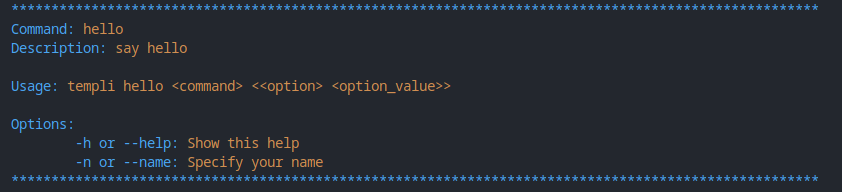
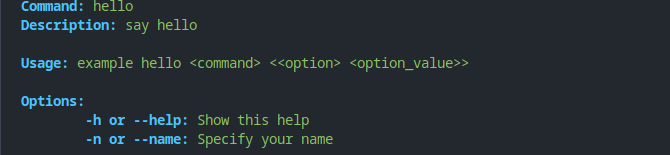
chore: update readme

diff --git a/README.md b/README.md
@@ -4,9 +4,9 @@ RCli is a powerful C++ library that simplifies the creation of CLI applications.
 
 With RCli, you can effortlessly handle user interactions, process input, and implement features like help commands (your_cli -h).
 
-# BUILD :hammer:
+For the color, RCli use [TColor](http://github.com/RickaPrincy/TColor)
 
-#### I recommend using RCli as a CMake submodule. However, if you prefer to build it separately, here's how you can do it:
+# BUILD :hammer:
 
 - Dependancies
     - CMake (Version 3.27 or later)
@@ -31,6 +31,7 @@ Create an instance of the App class, specifying the application name, version, a
 
 ```cpp
 int main(int argc, const char *argv[]){
+    Config::_error_color = TColor::B_RED; // RCli use TColor
     App example("example", "1.9.5", "cool application");
     // ...
     // (Your application logic will be added in the following steps)
@@ -58,7 +59,7 @@ Command hello("hello", "Say hello", [&](Command* _hello){
     std::cout << "Hello, " << name << "!" << std::endl;
 });
 
-hello.add_option(Option("-n,--name", "Specify your name", "name"));
+hello.add_option("-n,--name", "Specify your name", "name");
 ```
 
 ### Step 4: Run Your CLI Application
@@ -108,16 +109,33 @@ RCli provides various input types:
 #endif
 ```
 
-# Output 
+# Default color
 
-![Example0](./images/version.png)
+![Example0](./images/default_color.png)
 
-![Example0](./images/option.png)
+# Customized_color
+
+![Example1](./images/customized_color.png)
+
+# Some output
+
+![Example2](./images/version.png)
 
 ![Example1](./images/command.png)
 
 ![Example2](./images/input.png)
 
+# If you wanna install RCli
+
+```bash
+yay -Sy RCli #For system based on archlinux
+```
+or 
+
+```bash
+bash <(curl -s https://raw.githubusercontent.com/RickaPrincy/RCli/main/install.sh)
+```
+ 
 # License 
 
 This project is licensed under the [MIT License](License.txt).
